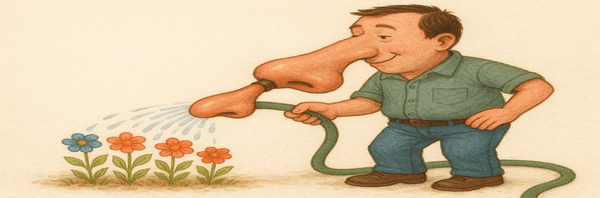
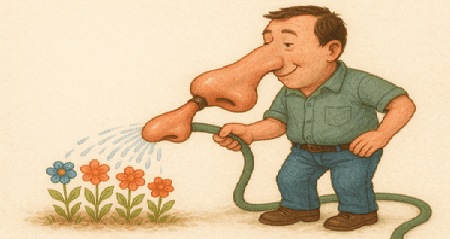
Complete sections 1 and 2 (header and hero text)

diff --git a/index.html b/index.html
@@ -3,57 +3,68 @@
   <head>
     <meta charset="UTF-8" />
     <meta name="viewport" content="width=device-width, initial-scale=1.0" />
-    <title>My Website</title>
+    <title>Garden Nose™</title>
     <link rel="stylesheet" href="css/styles.css" />
   </head>
   <body>
     <div class="first-element">
       <header>
-        <div class="logo">Header Logo</div>
+        <div class="logo">Garden Nose™</div>
         <a href="#">header link one</a>
         <a href="#">header link two</a>
         <a href="#">header link three</a>
       </header>
       <div class="hero-section">
         <div class="hero-left-section">
-          <h1 class="hero-main">This website is awesome</h1>
+          <h1 class="hero-main">Let Your Face Do the Sprinkling.</h1>
           <p class="hero-sub">
-            This website has some subtext that goes here under the main title.
-            It's a smaller font and the color is lower contrast.
+            Transform your face into a fully organic watering system. The Garden
+            Nose™ harnesses the natural moisture of your sinuses for maximum
+            photosynthesis.
           </p>
-          <button>Sign up</button>
+          <button>Buy Now!</button>
         </div>
-        <div>
+        <div class="hero-image-container">
           <img src="./img/garden_nose.png" class="hero-image" />
         </div>
       </div>
     </div>
     <div class="second-element">
-      <h2 class="information-header">Some random information.</h2>
-      <img src="#" />
-      <p class="information-content">
-        this is some subtext under an illustration or image
-      </p>
-      <img src="#" />
-      <p class="information-content">
-        this is some subtext under an illustration or image
-      </p>
-      <img src="#" />
-      <p class="information-content">
-        this is some subtext under an illustration or image
-      </p>
-      <img src="#" />
-      <p class="information-content">
-        this is some subtext under an illustration or image
-      </p>
+      <h2 class="information-header">Not Your Average Shnozz.</h2>
+      <div class="row-of-information">
+        <div class="information-image-text">
+          <img class="information-image" src="./img/spec1.png" />
+          <p class="information-content">
+            Dual-nostril flow control capabilities
+          </p>
+        </div>
+        <div class="information-image-text">
+          <img class="information-image" src="./img/spec2.png" />
+
+          <p class="information-content">
+            Control pressure with adjustable tap
+          </p>
+        </div>
+        <div class="information-image-text">
+          <img class="information-image" src="./img/spec3.png" />
+          <p class="information-content">Plug-and-play attachments</p>
+        </div>
+        <div class="information-image-text">
+          <img class="information-image" src="./img/spec4.png" />
+          <p class="information-content">
+            Get closer to the action with precision mode
+          </p>
+        </div>
+      </div>
     </div>
     <div class="third-element">
       <p class="quote-text">
-        This is an inspiring quote, or a testimonial from a customer. Maybe it's
-        just filling up space, or maybe people will actually read it. Who knows?
-        All I know is that it looks nice.
+        Before Garden Nose™, I was just a regular guy with a drippy nose and
+        dying daisies. Now? I’m the human hosepipe my neighborhood never knew it
+        needed. Thank you, Garden Nose™, for turning my seasonal allergies into
+        seasonal abundance.
       </p>
-      <p class="quote-author-text">-Thor, God of Thunder</p>
+      <p class="quote-author-text">Verified Breather - Gerald S.</p>
     </div>
     <div class="fourth-element">
       <p>Call to action! It's time!</p>

diff --git a/css/styles.css b/css/styles.css
@@ -11,15 +11,15 @@ body {
   background-color: #1f2937;
   display: flex;
   flex-direction: column;
-  padding: 24px 168px;
+  padding: 24px clamp(1rem, 10vw, 168px);
 }
 
 header {
   display: flex;
   justify-content: space-between;
   align-items: baseline;
+  /* flex-wrap: wrap; */
   gap: 24px;
-  flex: auto;
 }
 
 .logo {
@@ -30,40 +30,51 @@ header {
   flex-shrink: 0;
 }
 
-img {
-  max-width: 100%;
-  min-width: 90%;
-}
-
 a {
   text-decoration: none;
-  flex-shrink: 0;
+  flex-shrink: 1;
 }
 
 .hero-section {
   display: flex;
   justify-content: space-between;
+  flex-wrap: wrap;
   gap: 48px;
   margin: 96px 0;
-  flex: auto;
+}
+
+@media (max-width: 995px) {
+  .hero-section {
+    justify-content: center;
+  }
 }
 
 .hero-left-section {
   display: flex;
+  flex: 1 1 150px;
   flex-direction: column;
-  width: 450px;
+  max-width: 450px;
+}
+
+.hero-image-container {
+  flex: auto;
+  max-width: 450px;
 }
 
 .hero-image {
-  width: 450px;
-  height: 222px;
-  min-width: 200px;
+  max-width: 100%;
+  border-radius: 16px;
+  align-items: flex-end;
+  height: auto;
+  -webkit-border-radius: 16px;
+  -moz-border-radius: 16px;
+  -ms-border-radius: 16px;
+  -o-border-radius: 16px;
 }
 
 .hero-main {
   font-size: 48px;
   font-weight: 900;
-  display: block;
   min-width: 280px;
   color: #f9faf8;
   margin: 0;
@@ -76,17 +87,14 @@ a {
 .hero-sub,
 a {
   font-size: 18px;
-  color: #e5e7eb;
+  color: #979797;
 }
 
 button {
   background-color: #3882f6;
-  display: flex;
-  align-items: center;
-  justify-content: center;
-  text-wrap: nowrap;
-  padding: 12px 72px;
-  width: 100px;
+  align-self: flex-start;
+  white-space: nowrap;
+  padding: 8px 36px;
   border: 0;
   border-radius: 8px;
   -webkit-border-radius: 8px;
@@ -100,12 +108,40 @@ button {
 
 .second-element {
   display: flex;
+  flex: auto;
+  flex-direction: column;
+  padding-bottom: 98px;
+}
+
+.information-header {
+  margin: 48px auto;
+}
+
+.row-of-information {
+  display: flex;
+  flex-wrap: wrap;
+  justify-content: center;
+  row-gap: 24px;
+  column-gap: 12px;
+  margin-inline: clamp(1rem, 18vw, 400px);
+}
+
+.information-image-text {
+  flex: 1 0 168px;
+  display: flex;
   flex-direction: column;
   align-items: center;
 }
 
-h2 {
-  margin: 48px;
+.information-image {
+  width: 164px;
+  height: 164px;
+  border: 4px solid #3882f6;
+  border-radius: 16px;
+  -webkit-border-radius: 16px;
+  -moz-border-radius: 16px;
+  -ms-border-radius: 16px;
+  -o-border-radius: 16px;
 }
 
 .information-header {
@@ -117,6 +153,9 @@ h2 {
 .information-content {
   font-size: 18px;
   color: #6d747d;
+  width: 168px;
+  text-align: center;
+  margin: 12px 0 0 0;
 }
 
 .third-element {
